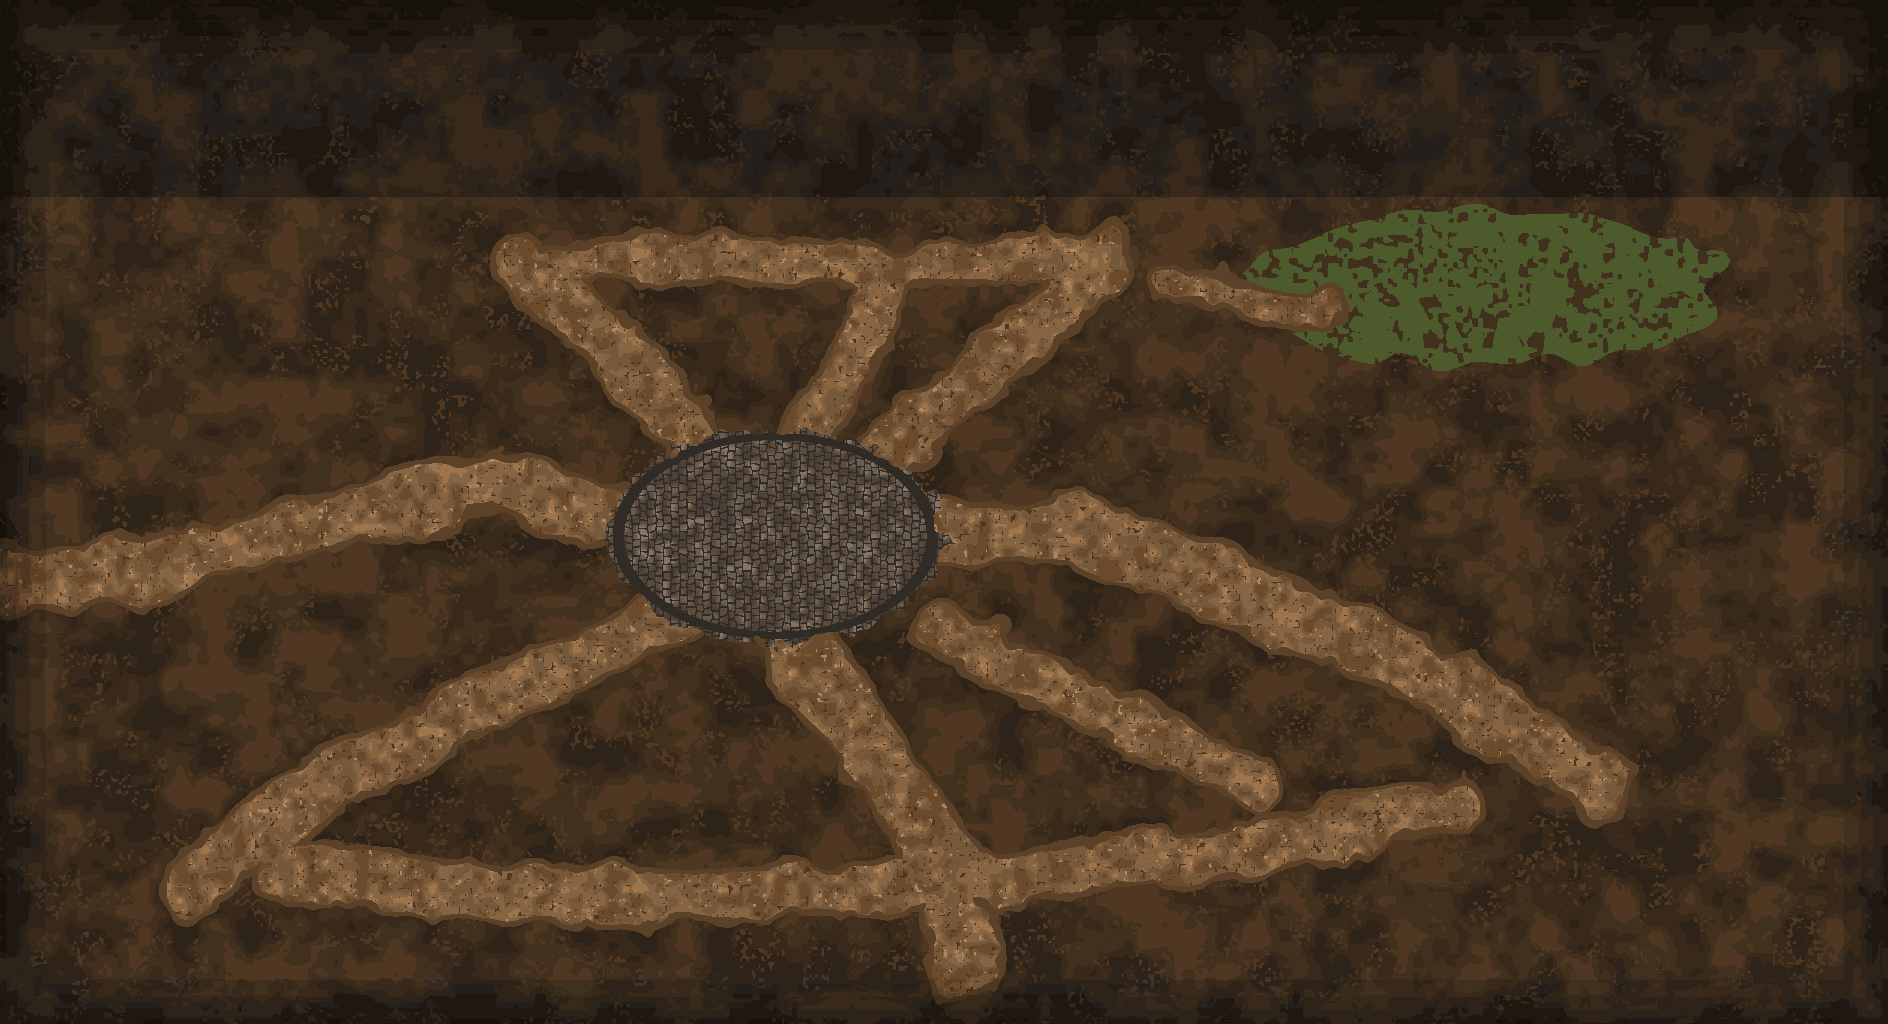
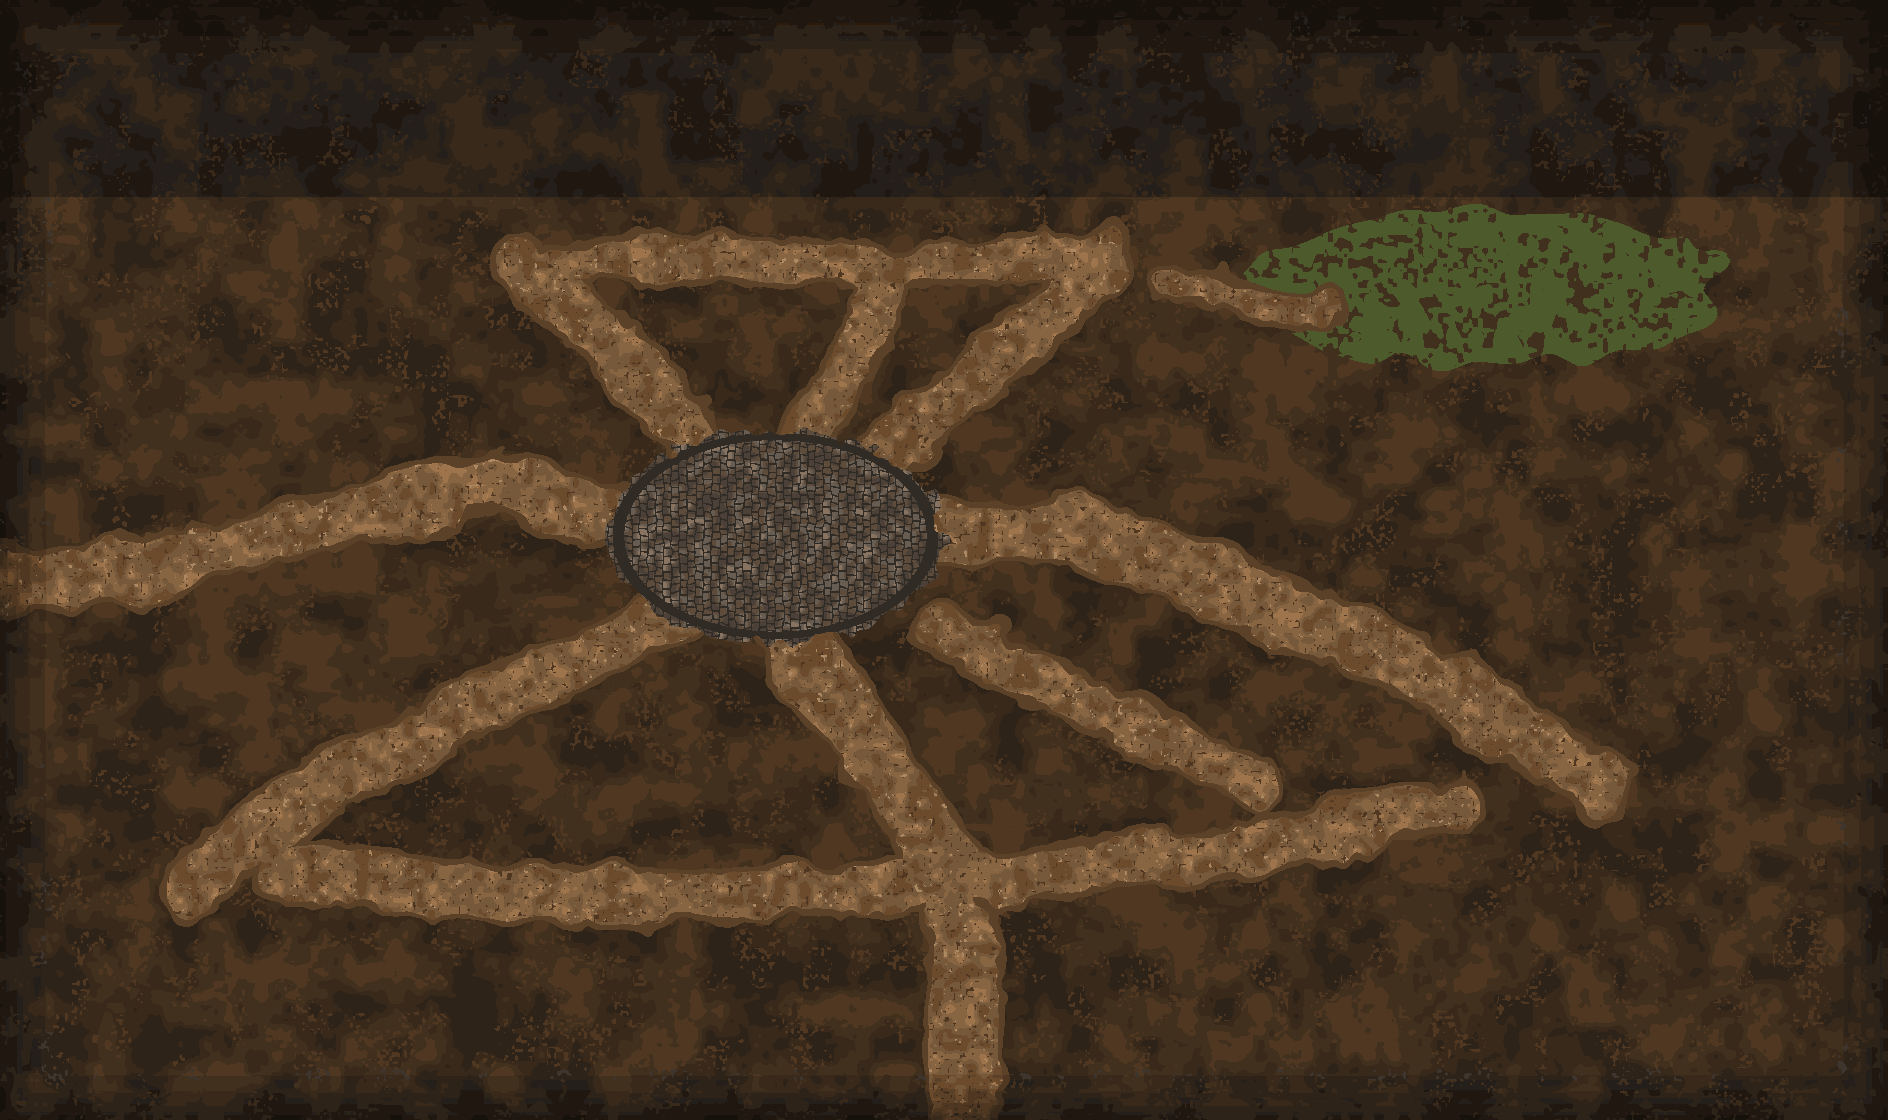
Felt v4: seam outside the south gate (town ground 3 more rows, the road walks out between dry scrub / dead trees / low stones from the art room, field trees start below); sign post moved off the gate board
Claude-Session: https://claude.ai/code/session_011TjkMwr4fUrpUSjUtodMij

diff --git a/test128/tools/hd/build_felt_v4.py b/test128/tools/hd/build_felt_v4.py
@@ -15,7 +15,7 @@ OUT = os.path.join(ROOT, 'assets', 'world', 'felt_v4'); os.makedirs(OUT, exist_o
 S, T, D, GD = 0.56, 16, 3, 2                      # world px per Grok px, tile, part D, ground D
 PJ = json.load(open(os.path.join(SRC, 'parts.json')))['parts']
 FF = json.load(open(os.path.join(ROOT, 'maps', 'field_felt.json'))); _top = [x for x, c in enumerate(FF['ground'][0]) if c in ".'=,"]
-W, H = max(54, int(860 * S // T) - (_top[0] + _top[-1]) // 2 + FF['w']), 32                                     # 1536 x 864 Grok px x 0.56 = 860 x 484 world px (+ 2 rows below the south stalls)
+W, H = max(54, int(860 * S // T) - (_top[0] + _top[-1]) // 2 + FF['w']), 35                                     # 1536 x 864 Grok px x 0.56 = 860 x 484 world px (+ 2 rows below the south stalls + 3 rows of seam outside the south gate)
 g2w = lambda gx, gy: (gx * S, gy * S)              # Grok px -> world px
 rnd = random.Random(7)
 
@@ -48,7 +48,10 @@ for pid, im in IM.items(): im.save(os.path.join(OUT, PJ[pid]['img']), optimize=T
 
 # ---------- placement ----------
 SC = json.load(open(os.path.join(SRC, 'scene_suggest.json')))['scene']   # the town-art room's entrance scene + district accents (Grok px)
-EXTRA = [tuple(e) for e in SC] + [  # + mine (Grok px): plaza lamps / bench, market, inn, herbs, web quarter, castle rubble
+SC = [['sign_post', 990, 818] if e[0] == 'sign_post' else e for e in SC]   # 이정표 비켜 세움 (남문 간판과 겹침, art room)
+SEAM = [('dead_tree', 700, 975), ('dead_tree', 1040, 985), ('bush_b', 790, 960), ('bush_b', 935, 965), ('bush_b', 610, 1000), ('bush_b', 1150, 995),
+        ('stone_low', 650, 925), ('stone_low', 1085, 930), ('bush_b', 480, 990), ('stone_low', 1250, 990)]   # 남문 바깥 이음매 (art room 30131c70): town ground runs 3 rows past the gate, dry scrub on it, field trees start below
+EXTRA = [tuple(e) for e in SC] + SEAM + [  # + mine (Grok px): plaza lamps / bench, market, inn, herbs, web quarter, castle rubble
  ('tombs', 1450, 305), ('fence_iron', 1215, 335), ('fence_iron', 1300, 340), ('candelabra', 1000, 215), ('cocoons', 1500, 640),
  ('lamp', 600, 452), ('lamp', 785, 452), ('lamp', 600, 575), ('lamp', 790, 575), ('lamp', 175, 560),
  ('bench', 742, 585), ('crates', 575, 405), ('barrels', 395, 425), ('cart', 850, 430),
@@ -57,6 +60,9 @@ props, solid = [], [[False] * W for _ in range(H)]
 for x in range(W): solid[0][x] = solid[H - 1][x] = True
 for y in range(H): solid[y][0] = solid[y][W - 1] = True
 for y in range(int(175 * S // T)): solid[y] = [True] * W           # far backdrop above the castle line
+GX = int(860 * S // T)                                               # south road column
+for y in range(H - 4, H):                                            # seam outside the gate: only the road walks on to the ash field
+    for x in range(W): solid[y][x] = abs(x - GX) > 1
 def bottom_span(im):                               # opaque columns in the bottom 12 % of the picture
     al = np.asarray(im)[..., 3]; h = al.shape[0]; rows = al[int(h * .88):]; cols = np.where(rows.max(0) > 0)[0]
     return (cols[0], cols[-1]) if len(cols) else (0, al.shape[1] - 1)
@@ -97,7 +103,7 @@ def seg_dist(px, py, ax, ay, bx, by):
 ROADS = [  # Grok px polylines, width (the key art's road web: plaza hub, radial roads + ring, south exit)
  ([(692, 470), (620, 390), (540, 300), (470, 235)], 46), ([(700, 420), (760, 330), (790, 255)], 40), ([(760, 430), (880, 330), (990, 230)], 44),
  ([(800, 480), (960, 470), (1110, 530), (1270, 600), (1430, 700)], 54), ([(600, 470), (440, 430), (280, 470), (120, 510), (0, 520)], 50),
- ([(620, 540), (470, 610), (300, 690), (170, 790)], 46), ([(700, 560), (760, 650), (840, 760), (860, 864)], 56),
+ ([(620, 540), (470, 610), (300, 690), (170, 790)], 46), ([(700, 560), (760, 650), (840, 760), (860, 864), (860, 1010)], 56),
  ([(250, 780), (500, 800), (840, 790), (1100, 760), (1300, 720)], 42), ([(840, 560), (1000, 640), (1120, 700)], 40),
  ([(1040, 250), (1180, 280)], 30), ([(470, 235), (600, 228), (800, 240), (990, 230)], 34)]
 dr = np.full((GH, GW), 1e9)

diff --git a/handoff/claude/TOWN_LAYOUT_ko.md b/handoff/claude/TOWN_LAYOUT_ko.md
@@ -29,7 +29,7 @@
 
 ## 4. 펠트 v4 = 마을배경방 최종 부품 (D=3, 43크레딧)
 - 만드는 법: `python3 test128/tools/hd/build_felt_v4.py <부품 폴더>` (기본 = `handoff/claude/felt_grok_build/final`) → `maps/felt_v4.json` + `maps/ch1_v4.json` + `assets/world/felt_v4/`.
-- 자리 = 그록 발밑 × 0.56 (부품이 그록의 0.7배라 간격도 0.7배). 지도 59×32칸.
+- 자리 = 그록 발밑 × 0.56 (부품이 그록의 0.7배라 간격도 0.7배). 지도 59×35칸 (남문 밖 이음매 3줄 포함).
 - 0크레딧 손질 (코드): 분수 물 → 어두운 고인 물, 무기점 간판 "o305" 지움, 잡화점 앞에 박힌 사람은 우물 소품으로 가림, 건물 그림의 잘린 네모 테두리 → 찢긴 가장자리.
 - 바닥 = 코드 (마을 32색): 그록 길 모양을 선으로 따라 그린 흙길 + 광장 돌바닥 고리 + 어두운 흙·마른 풀 + 묘지 풀밭.
 - 충돌 = 그림 아래쪽 폭. 문·표식·NPC(2번방 near 규칙)·단서·비석은 felt.json 그대로 따라감.
